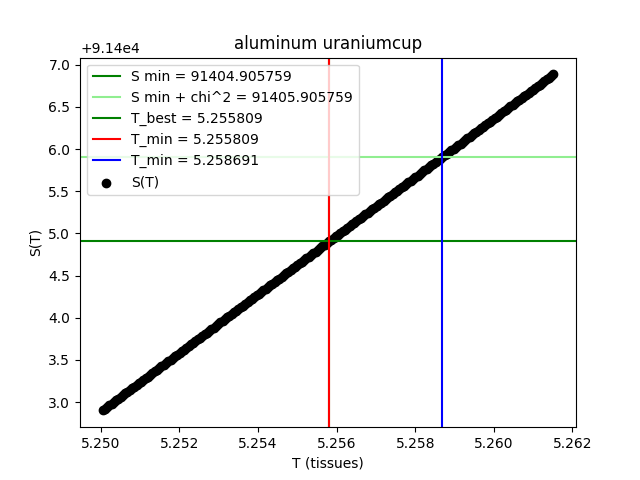
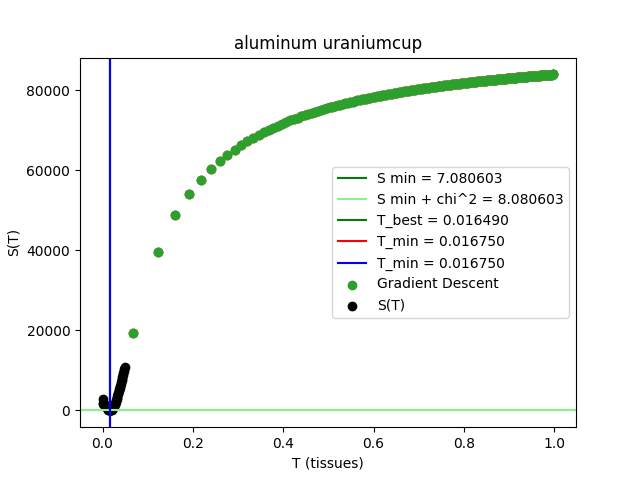
grad desc works via adaptive lr hack

diff --git a/calculate.py b/calculate.py
@@ -13,6 +13,7 @@ from config import PRINT_PRECISION
 CM_PER_INCH = 2.54
 MAX_COUNTRATE = 3500
 GOOD_ENOUGH = 1e-9
+OFF_FACTOR = 10
 
 def process(dataitem):
     meta, data, background = itemgetter('meta', 'data', 'background')(dataitem)
@@ -77,7 +78,7 @@ def unwrap(datatable):
 #     #     print(dydx)
 #     #     # weight update
 
-def sMinFit(datatable, function, param=1, lr=1e-5, delta=1e-8, epochs=int(1e6), ax=None):
+def sMinFit(datatable, function, param=1, lr=1e-7, delta=1e-8, epochs=int(1e6), ax=None):
     x, y, sig = unwrap(datatable)
 
     bar = tqdm.tqdm(range(epochs))
@@ -85,30 +86,58 @@ def sMinFit(datatable, function, param=1, lr=1e-5, delta=1e-8, epochs=int(1e6), 
     trail_x = []
     trail_y = []
 
+    incident = 0
+
     for it in bar:   # lets just copy what they have here: https://towardsdatascience.com/implement-gradient-descent-in-python-9b93ed7108d1
         prev_p = param
         dydx = (SSE(x, param+delta, y, sig, function) - SSE(x, param-delta, y, sig, function))/(2*delta)
         param -= lr * dydx
 
-        print(f'param {param:.6f}, deriv {dydx:.6f}, change {abs(prev_p - param):.6f}')
-        # bar.set_description(f'param {param:.6f}, deriv {dydx:.6f}, change {abs(prev_p - param)}')
+        # print(f'param {param:.6f}, deriv {dydx:.6f}, change {abs(prev_p - param):.6f}')
+        bar.set_description(f'param {param:.6f}, deriv {dydx:.6f}, change {abs(prev_p - param)}')
+
+        newcost = SSE(x, param,  y, sig, function)
+        oldcost = SSE(x, prev_p, y, sig, function)
+        if abs(newcost-oldcost) > abs(OFF_FACTOR*dydx*(param-prev_p)) or newcost > oldcost:
+            print(f"bad news bears {oldcost} and {newcost} differ by too much")
+            if ax is not None:
+                ax.scatter(trail_x, trail_y)
+                plt.savefig('out/broke.png')
+            #     ax.clear()
+            # trail_x = []
+            # trail_y = []
+
+            lr /= 2
+            incident = it
+            param = prev_p
+            print("lets try again...")
+            continue
+
+        if it - incident > 1e3:
+            lr *= 1.1
+            incident = it
+
+        # # sound the alarm if loss goes up
+        # if SSE(x, param, y, sig, function) > SSE(x, prev_p, y, sig, function):
+        #     print(f"bad news bears {SSE(x, param, y, sig, function)} > {SSE(x, prev_p, y, sig, function)}")
+        #     ax.scatter(trail_x, trail_y)
+        #     plt.savefig('out/broke.png')
+        #     breakpoint()
 
         trail_x.append(param)
         trail_y.append(SSE(x, param, y, sig, function))
 
-        if SSE(x, param, y, sig, function) > SSE(x, prev_p, y, sig, function):
-            print(f"bad news bears {SSE(x, param, y, sig, function)} > {SSE(x, prev_p, y, sig, function)}")
-            ax.scatter(trail_x, trail_y)
-            plt.savefig('out/broke.png')
-            breakpoint()
+        # # pause every 1e4 iterations for a checkup
+        # if it % int(1e4) == 0:
+        #     if ax is not None:
+        #         ax.scatter(trail_x, trail_y, label='Gradient Descent')
+        #         plt.savefig('out/temp.png')
+        #         breakpoint()
 
-        if it % int(1e4) == 0:
+        if abs(prev_p - param) < GOOD_ENOUGH:
             if ax is not None:
                 ax.scatter(trail_x, trail_y, label='Gradient Descent')
                 plt.savefig('out/temp.png')
-                breakpoint()
-
-        if abs(prev_p - param) < GOOD_ENOUGH:
             break
 
     return param, SSE(x, param, y, sig, function)
@@ -137,8 +166,6 @@ def calculateSfitUncert(bestx, besty, targety, function, ax=None, low=0, high=10
     if ax is not None:
         # plot neighborhood
         abs_err = max(bestx - param_min, param_max-bestx)
-        neighborhood = np.arange(bestx-abs_err*2, bestx+abs_err*2, abs_err*4/200)   # 200 evenly spaced points
-        ax.scatter(neighborhood, list(map(function, neighborhood)), color='black', label='S(T)')
 
         # # plot binary search tries
         # ax.scatter(*tries_min, color='grey')

diff --git a/drive.py b/drive.py
@@ -3,6 +3,8 @@ from multiprocessing import Pool
 from calculate import SSE, process, unwrap, sMinFit, RelativeIntersity, calculateSfitUncert
 
 import matplotlib.pyplot as plt
+import numpy as np
+import pandas as pd
 
 from sys import argv
 
@@ -53,12 +55,24 @@ fitTs = []
 def process(indx, ax=None):
     attrs = results[indx].attrs
 
+    print(f"processsing {attrs['material']} {attrs['source']}")
+
+
     t, smin = sMinFit(results[indx], RelativeIntersity, lr = 5e-4 if "tissue" == attrs['material'] else 2e-7, ax=ax)
 
     inches, logits, logits_err = unwrap(results[indx])
+
+    neighborhood = np.arange(0, 0.05, 1/1000)   # 200 evenly spaced points
+    ax.scatter(neighborhood, list(map(lambda T: SSE(inches, T, logits, logits_err, RelativeIntersity), neighborhood)), color='black', label='S(T)')
+    plt.savefig('out/near.png')
+    breakpoint()
+
     t_min, t_max = calculateSfitUncert(t, smin, smin+1, lambda T: SSE(inches, T, logits, logits_err, RelativeIntersity), ax=ax, low=0.1, high=30)
 
     if ax is not None:
+        # neighborhood = np.arange(t-(t-t_min)*2, t+(t_max-t)*2, abs_err*4/200)   # 200 evenly spaced points
+        # ax.scatter(neighborhood, list(map(function, neighborhood)), color='black', label='S(T)')
+
         ax.set_title(f"{attrs['material']} {attrs['source']}")
         ax.set_xlabel(f"T ({results[7].attrs['material']})")
         ax.set_ylabel("S(T)")
@@ -75,7 +89,6 @@ def process(indx, ax=None):
 # >>>>>>> 68cb3cc3a83d6f09391e99a4e1cc04d712bebe16
 
 if __name__ == '__main__':
-    print(len(results))
     for i in range(1, 9):
         fig, ax = plt.subplots()
         print(process(i, ax))
